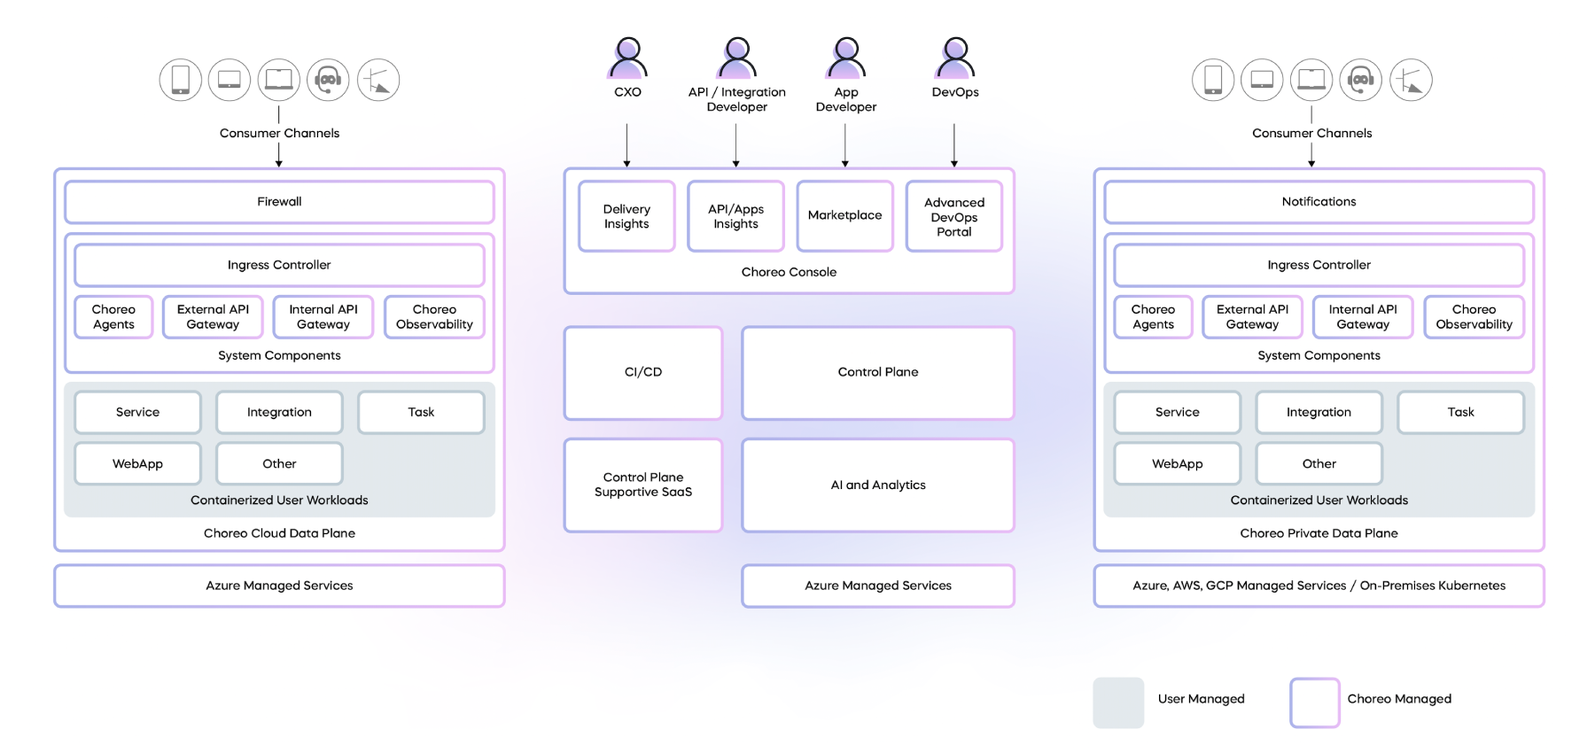
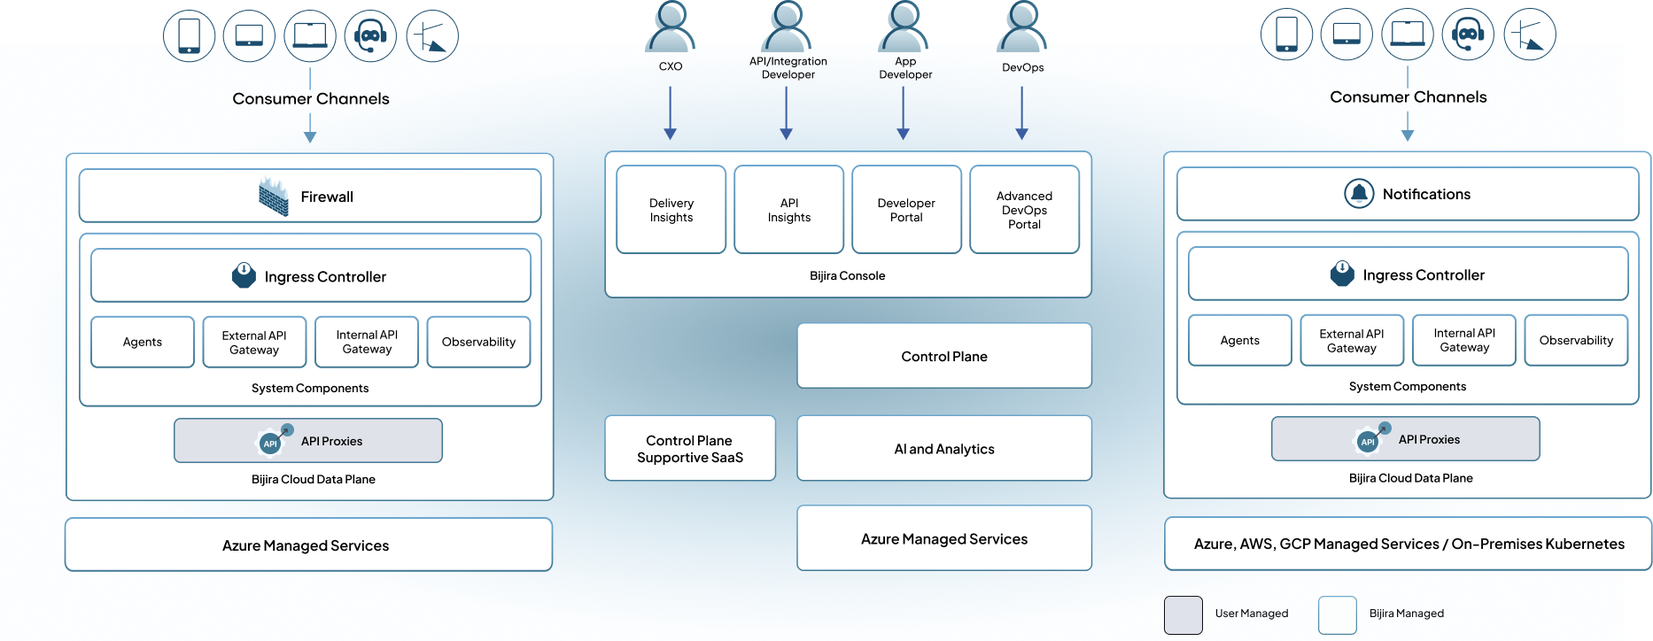
Revamp doc content

diff --git a/en/theme/material/templates/home-page-2.html b/en/theme/material/templates/home-page-2.html
@@ -283,7 +283,7 @@
                             </svg>
                         </div>
                         <div class="cText">
-                            <a href="bijira-concepts/ci-cd/"> Bijira Concepts</a>
+                            <a href="bijira-concepts/organization/"> Bijira Concepts</a>
                         </div>
                     </div>
                     <div class="iconTextcontainer last_in_card">

diff --git a/en/docs/bijira-concepts/data-planes.md b/en/docs/bijira-concepts/data-planes.md
@@ -1,41 +1,52 @@
 # Data Planes
 
-Bijira's architecture comprises two key components: the control plane and the data plane. The control plane handles essential tasks such as administering organizations, users, and projects. In addition, it also governs the entire journey of application development, from the initial stages of creation, progressing  to deployment, including measures to enforce governance and the provision for observability. The Bijira control plane is a SaaS that manages all cloud data planes and private data planes. It caters to diverse user personas, including CIOs, architects, and developers, as well as DevOps, site reliability engineers, and platform engineers.
+Bijira’s architecture is built around two core components, i.e. the control plane and the data plane.
 
-The data plane is the environment where user applications are deployed based on configurations set in the control plane. These applications can range from services and web applications to APIs, integrations, and scheduled tasks. The applications can be written in various programming languages, allowing for a polyglot approach. Importantly, all traffic related to the runtime of user applications is restricted to the Bijira data plane, ensuring strict containment of user data within its boundaries.
+### Control Plane
+The control plane manages key administrative tasks, including the configuration of organizations, users, and projects. It also orchestrates the entire API Proxy development lifecycle, from creation and deployment to governance enforcement, observability enablement, and publishing to the Developer Portal for application developers to consume APIs.
 
-Bijira's architecture features two distinct data plane types: cloud data planes and private data planes. A cloud data plane utilizes a multi-tenanted infrastructure model for deploying user applications, creating a shared yet secure environment for application runtime. In contrast, a private data plane(PDP) provides dedicated infrastructure for a single organization to run its user applications. This ensures an added layer of privacy and control for organizations with specific requirements.
+As a SaaS platform, the Bijira control plane oversees both cloud data planes and private data planes. It supports a wide range of user roles, including CIOs, architects, and developers.
+
+### Data Plane
+The data plane is where user-deployed API Proxies run, based on configurations defined in the control plane. All traffic related to these API Proxies is confined within the data plane, ensuring that user data remains securely contained.
+
+Bijira supports two types of data planes.
+
+- **Cloud Data Planes (CDP):** Use a multi-tenant infrastructure to deploy API Proxies, offering a shared yet secure runtime environment.
+- **Private Data Planes (PDP):** Offer dedicated infrastructure for a single organization, providing enhanced privacy and control to meet specific compliance or security requirements.
 
 ![Bijira high-level view](../assets/img/bijira-concepts/high-level-view.png)
 
-## Private data planes
+## Private Data Planes
 
-### Infrastructure
+### Infrastructure Compatibility
+Bijira private data planes can be deployed on most major cloud providers such as Azure, AWS, GCP, as well as on-premises environments.
 
-Bijira private data planes can be deployed with almost all major cloud providers, such as Azure, AWS, and GCP, and are also compatible with on-premises infrastructure.
+Minimum infrastructure requirements include,
 
-The essential requirements for a private data plane include upstream-compatible Kubernetes clusters, a container registry, a key vault (secret store), and a logging service or log storage.
+- Kubernetes clusters compatible with upstream distributions
+- Container registry
+- Key vault (secret store)
+- Logging service or log storage
 
 ![Private data plane architecture](../assets/img/bijira-concepts/private-data-plane-architecture.png)
 
 ### System components
 
-Setting up the Bijira PDP system involves using a Helm installation on the Kubernetes infrastructure.
-The following software components are installed during the helm execution:
+Setting up a Bijira PDP involves deploying components via Helm on the Kubernetes infrastructure. The installation include,
 
-- Cilium CNI and service mesh.
-- Bijira API Gateways and related components.
-- Bijira PDP agent.
-- Observability and logging APIs, along with observability agents.
-- Flux controller.
+- Cilium CNI
+- API Gateways and related components
+- PDP Agent
+- Observability and logging APIs, including observability agents
+- Flux Controller
 
-All of these software components receive automatic updates, including security patches and bug fixes through the flux controller connected to the Bijira Update Management System.
+All components are automatically updated, including security patches and bug fixes via the Flux Controller, which is connected to the Update Management System.
 
-### Connectivity with the control plane
+### Control Plane Connectivity
+Private data planes communicate with the control plane for ongoing operations. All communication is outbound only from the private data plane. If your organization’s network restricts outbound traffic, allow access to the control plane's public IP range.
 
-The private data plane requires communication with the Bijira control plane to manage various activities. All these communications are outbound from the private data plane, ensuring that there is no need to open any specific `IP:Port` from its perspective for these interactions. However, if an organization's network restricts all outbound traffic, it is necessary to permit outbound traffic to the public IP range of the Bijira control plane.
-
-The following table outlines the inbound and outbound connections from a private data plane:
+The following table details the required inbound and outbound connections for private data planes.
 
 | Data plane component      | Endpoint                                | Direction                 | Protocol |
 |:---------------------------|:---------------------------------------|:---------------------------|:---------|
@@ -52,37 +63,36 @@ The following table outlines the inbound and outbound connections from a private
 | Flux source controller     | GitHub                                 | Outbound                  | HTTPS    |
 | Flux Helm controller       | Bijira container registry              | Outbound                  | HTTPS    |
 
-All communication between the control plane and the private data plane is secured using TLS.
+All communications between the control plane and the private data plane are secured using TLS encryption.
 
-### Observability architecture
+### Observability Architecture
 
-The following diagram depicts the architecture overview of Bijira's in-data-plane log and observability in Azure PDP:
+The following diagram illustrates the log and observability architecture of a Bijira Azure PDP deployment.
 
 ![Observability architecture](../assets/img/bijira-concepts/observability-architecture.png)
 
-The private data plane observability architecture is centered around a strong commitment to data privacy and compliance. This is achieved through a strategic decision to retain logs and observability data within the data planes itself. Key aspects of this architecture include:
+---
 
-- **Data storage at source**: Logs and observability data are stored within the data plane itself, enhancing security, simplifying access, and ensuring compliance.
-- **Direct browser-to-data-plane interaction**: The Bijira Console in the user's browser directly interacts with APIs in the data plane, reducing potential data routing complexities and ensuring a more secure, direct flow of information.
-- **Reduced data exposure points**: Fetching data directly from the data plane's APIs minimizes the number of data transfer points, effectively decreasing the chances of data exposure or interception.
-- **Compliance with regulatory standards**: The architecture supports data locality, aligning with global regulatory standards like GDPR and CCPA by keeping data in its original environment.
-- **Improved performance and real-time insights**: Direct interaction between the browser and data plane results in faster data retrieval, providing users with immediate insights.
-- **User transparency and control**: Users have a clear view of their data's location and access methods, alongside granular control over data access.
+This architecture emphasizes data privacy and regulatory compliance by retaining logs and observability data within the data plane itself. Key design principles include:
+
+- **Data storage at source:** Logs and observability data are stored locally within the data plane, improving security and simplifying access, and ensuring compliance.
+- **Direct browser-to-data-plane interaction:** The Bijira Console in the user’s browser interacts directly with APIs in the data plane, reducing potential data routing complexities and ensuring a more secure, direct flow of information.
+- **Minimized exposure points:** Retrieving data directly from in-plane APIs minimizes the number of data transfer points, effectively decreasing the chances of data exposure or interception.
+- **Regulatory compliance:** By supporting data locality, the architecture aligns with GDPR, CCPA, and other regulatory frameworks.
+- **Real-time insights and improved performance:** Direct communication between the browser and the data plane enables faster data access and near real-time visibility.
+- **Transparency and control:** Users have clear insight into where their data resides and how it is accessed, with fine-grained control.
 
 ### Security
 
-The Bijira private data plane ensures extensive, production-grade security, ranging from infrastructure and architecture to zero-trust network security. All incoming traffic is protected by a firewall and must undergo authentication and authorization via the API Gateway. It also provides end-to-end network traffic encryption using Cilium transparent encryption, ensuring efficient data path encryption.
+The Bijira private data plane is built with production-grade security in mind, covering infrastructure, architecture, and zero-trust network security. All inbound traffic passes through a firewall and is authenticated and authorized via the API Gateway.
 
-<!-- TODO: Check the linked document -->
-<!-- For details on the private data plane security levels supported in Bijira pricing plans, see [Private Data Plane Security Levels](../references/private-data-plane-security-levels.md). -->
+End-to-end encryption is enforced using Cilium transparent encryption, ensuring secure and efficient network traffic flow.
 
-### Management models
+### Private Data Plane Management Models
 
-Bijira supports the following management models for private data planes (PDPs), fostering collaboration between WSO2 and customers across diverse scenarios:
+Bijira supports flexible management models for private data planes, facilitating collaboration between WSO2 and customers across diverse scenarios.
 
-- WSO2 fully managed (infrastructure and PDP in WSO2 subscription) model
-- WSO2 fully managed (infrastructure and PDP in customer subscription) model
-- Customer self-managed (WSO2 provides installation script and updates) model
+- **WSO2 Fully Managed – WSO2 Subscription:** Infrastructure and PDP are hosted under WSO2’s subscription.
+- **WSO2 Fully Managed – Customer Subscription:** Infrastructure is hosted under the customer’s subscription, but WSO2 manages the PDP.
+- **Customer Self-Managed:** WSO2 provides installation scripts and updates, while the customer maintains full control of the infrastructure and operations.
 
-<!-- TODO: Check the linked document -->
-<!-- To explore each management model in detail so that you can make informed decisions depending on the supported cloud-based operations and security, see [Private Data Plane Management Models](../references/private-data-plane-management-models.md). -->

diff --git a/en/docs/bijira-concepts/organization.md b/en/docs/bijira-concepts/organization.md
@@ -1,61 +1,94 @@
-# Organization
+# Organizations in Bijira
 
-An organization in Bijira is a logical grouping of users and user resources. A first-time user must create an organization and be a member of it when signing in to Bijira. Users and resources in an organization cannot access resources in another organization unless an admin of the other organization invites them and adds them as a member of that organization. A user cannot create more than one organization.
+Organizations are the foundational building blocks in Bijira, providing a secure and logical grouping of users, resources, and projects. This covers everything you need to know about organizations in Bijira, including their structure, management, permissions, and unique identifiers.
 
-## Switch organizations
+---
 
-If you are a member of more than one organization, you can switch from one organization to another when necessary. To do this, select the required organization from the **Organization** list in the Bijira Console header.
+## What is an Organization?
 
-{% include "../administer/inviting-members.md" %}
+An **organization** in Bijira is a logical container for users and their resources. Every user must belong to an organization to use Bijira. Organizations help isolate resources, manage access, and enable collaboration within a defined boundary.
 
-## Manage user permission
+- **First-time user onboarding:** First-time users must create an organization and become its member upon signing up.
+- **Resource isolation**: Users and resources in one organization cannot access those in another, unless explicitly invited.
+- **Single organization per user**: A user can only create one organization, but may be invited to join others.
 
-Bijira manages user permissions with groups and roles.
+---
+
+## Switching between Organizations
+
+If you are a member of multiple organizations, you can easily switch between them by following steps below.
+
+1. In the Bijira Console header, click the **Organization** list.
+2. Select the desired organization from the dropdown.
+
+---
+
+## Inviting Members to Your Organization
+
+To collaborate, you can invite new members to your organization. (See the [Inviting Members](../administer/inviting-members.md) guide for step-by-step instructions.)
+
+---
+
+## Managing User Permissions
+
+Bijira uses a combination of **groups** and **roles** to manage user permissions efficiently.
 
 ### Groups
 
-A group in Bijira is a collection of users, each with one or more roles assigned to them. Users within a group inherit the permissions associated with the roles assigned to that group. For instance, if a user is added to the `API Publisher` group, they will automatically receive the `API Publisher` role.
+A **group** is a collection of users with one or more roles assigned. Users inherit all permissions associated with the group's roles. For example, adding a user to the `API Publisher` group automatically grants them the `API Publisher` role.
 
-Bijira comes with predefined groups already configured with specific roles, as follows:
+#### Predefined Groups
 
-- **API Publisher**: A collection of users who have the API Publisher role.
-- **API Subscriber**: A collection of users who have the API Subscriber role.
-- **Admin** : A collection of users who have the Admin role.
-- **Billing Admin** : A collection of users who have the Billing Admin role.
-- **Bijira DevOps** : A collection of users who have the Bijira DevOps role.
-- **Developer** : Users who develop, deploy, and manage cloud native applications at scale.
-- **External API Subscriber**: A collection of users who have the External API Subscriber role.
+Bijira provides several predefined groups, each mapped to specific roles.
 
-When creating a new group to invite members, be sure to assign a role to the group to ensure users have the required permissions.
+- **Admin**: Users who have full access to the Choreo (user management, application development, billing and subscription, etc.).
+- **API Publisher**: Users who understand the technical aspects of the API (interfaces, documentation, versions, etc.) and create and publish APIs into the Developer Portal.
+- **API Subscriber**: Users or Application Developers who search the Developer Portal to discover APIs and use them. They read the documentation and forums, rates/comments on the APIs, subscribes to APIs, obtain access tokens, and invokes the APIs.
+- **Choreo Platform Engineer**: Users who perform tasks focusing on infrastructure, governance, service mesh, and monitoring.
+- **Choreo DevOps**: Users who are involved in deployment management.
+
+> **Tip:** When creating a new group, always assign at least one role to ensure members have the required permissions.
 
 ### Roles
 
-Bijira roles are defined as follows:
+Roles define what actions a user can perform within an organization. The main roles in Bijira are:
 
-- **API Publisher**: An API publisher can discover, create, publish, delete, test, and manage an API.
-- **API Subscriber**: An API subscriber is a developer in a particular organization. An API subscriber can subscribe to an application, manage subscriptions, manage applications, generate API keys, and manage API keys.
-- **Admin**: An administrator is responsible for all administration tasks, including user management, customizing the Developer Portal, managing projects, enabling analytics, managing domains, etc.
-- **Billing Admin**: Is responsible for billing administration that includes viewing tiers, creating and viewing organizations, managing invoices, viewing and creating subscriptions, and viewing and creating payment methods.
-- **Bijira DevOps**: A Bijira DevOps user is a user with access to the Bijira DevOps portal, enabling them to actively manage, ensure dependable deployment, and monitor components.
-- **Developer** : A user who can develop, deploy, and manage cloud native applications at scale.  
-- **External API subscriber**: External API subscribers are API consumers who have access only to the API Developer Portal. They can join an organization with the sole purpose of consuming APIs.
-- **Environment Manager (Deprecated)**: Manages deployment environments.
+- **API Publisher**: Users who understand the technical aspects of the API (interfaces, documentation, versions, etc.) and create and publish APIs into the Developer Portal.
+- **API Subscriber**: Users or Application Developers who search the Developer Portal to discover APIs and use them. They read the documentation and forums, rates/comments on the APIs, subscribes to APIs, obtain access tokens, and invokes the APIs.
+- **Admin**: Users who have full access to the Choreo (user management, application development, billing and subscription, etc.)
+- **Choreo DevOps**: Users who are involved in deployment management.
+- **Choreo Platform Engineer**: Users who perform tasks focusing on infrastructure, governance, service mesh, and monitoring.
 
-## Organization ID
+---
 
-The Organization ID serves as a unique identifier for each organization. To get the organization ID, follow the steps below:
+## Organization Identifiers
 
-1. Go to [Bijira Console](https://console.bijira.dev/) and sign in. This opens the project home page.
-2. Click on the **Organization** list on the header and select your organization.
+Bijira uses two unique identifiers for organizations, the **Organization ID** and the **Organization Handle**.
+
+### Organization ID
+
+A unique, system-generated identifier for each organization. To find your Organization ID:
+
+1. Go to the [Bijira Console](https://console.bijira.dev/) and sign in.
+2. Click the **Organization** list in the header and select your organization.
 3. In the left navigation, click **Settings**.
-4. In the header, click the **Organization** list. This will open the organization level settings page.
-5. Under **Organization** click **Copy ID**.
+4. In the header, click the **Organization** list to open organization-level settings.
+5. Under **Organization**, click **Copy ID**.
 
-## Organization Handle
+### Organization Handle
 
-The organization handle is a unique string that directly corresponds to your organization's name. To get the organization handle, follow the steps below:
+A unique, human-readable string that corresponds to your organization's name. To find your Organization Handle:
 
-1. Go to [Bijira Console](https://console.bijira.dev/) and sign in. This opens the project home page.
-2. Click on the **Organization** list on the header and select your organization.
+1. Go to the [Bijira Console](https://console.bijira.dev/) and sign in.
+2. Click the **Organization** list in the header and select your organization.
 3. In the left navigation, click **Settings**.
-4. Under **Organization** click **Copy Handle**.
+4. Under **Organization**, click **Copy Handle**.
+
+---
+
+## Best Practices for Organization Management
+
+- **Assign roles carefully**: Only grant users the permissions they need.
+- **Use groups for easier management**: Assign roles to groups and add users to groups for scalable permission management.
+- **Regularly review membership**: Periodically audit group memberships and roles to ensure security and compliance.
+- **Leverage organization identifiers**: Use the Organization ID and Handle for integrations, support, and automation.

diff --git a/en/docs/introduction/what-is-bijira.md b/en/docs/introduction/what-is-bijira.md
@@ -1,30 +1,33 @@
 # What is Bijira?
 
-Bijira is a cloud-based API management platform designed to simplify API development, deployment, security, and monitoring. Built on the foundation of WSO2 API Manager, Bijira provides a streamlined experience for organizations looking to manage APIs efficiently while leveraging key capabilities from Choreo.
+Bijira is next-generation, AI-native SaaS platform for full lifecycle API management, built to meet the demands of cloud-native and AI-driven ecosystems. Designed to simplify and accelerate API development, deployment, security, and monitoring, Bijira offers a unified control plane to manage all your APIs whether they’re internal, external, or AI-powered, across hybrid and multi-cloud environments.
+
+Powered by the proven foundation of WSO2 API Manager and enriched with key innovations from Choreo, Bijira delivers a seamless developer experience, intelligent governance, and enterprise-grade scalability.
 
 ## Key Capabilities of Bijira
 
 ### API Design and Development
-
-- **Seamless API Creation**: Define, document, and publish APIs using an intuitive user interface.
+- **Seamless API Creation:** Design, document, and publish APIs effortlessly using a visual interface or natural-language prompts powered by GenAI.
+- **Contract-First and No-Code Options:** Import OpenAPI/AsyncAPI specs or use low-code tools to define API behavior.
 
 ### API Security and Governance
 
-- **Robust Access Control**: Enforce authentication and authorization policies with OAuth.
-- **Rate Limiting and Throttling**: Protect your APIs from abuse by setting up request quotas and rate limits.
+- **Robust Access Control:** Enforce fine-grained authentication and authorization with OAuth2, OIDC, and role-based access control.
+- **Governance-as-Code:** Apply API design and security best practices using AI-assisted policy validation and rulesets.
+- **Rate Limiting and Throttling:** Protect APIs from abuse with granular control over traffic and quotas.
 
 ### API Lifecycle Management
 
-- **Comprehensive API Lifecycle Support**: From design to deprecation, Bijira enables smooth API versioning and management.
+- **Comprehensive Lifecycle Support:** From design to deprecation, Bijira streamlines API versioning, deployment, testing, promotion, and retirement.
 
 ### Developer Experience and API Discoverability
 
-- **Developer Portal**: Provide a self-service portal for developers to discover, subscribe to, and test APIs.
-- **API Documentation**: Auto-generate API documentation to improve adoption and usability.
+- **Developer Portal:** Offer a branded, self-service portal for API discovery, subscription, and interactive testing.
+- **Auto-Generated Documentation:** Improve usability and adoption with dynamic, always up-to-date API docs.
 
 ### Analytics and Monitoring
 
-- **Real-time API Insights**: Track API performance, consumer usage, and error rates through built-in analytics.
-- **Observability and Logging**: Gain deeper visibility into API interactions with detailed logs and event tracking.
+- **Real-time Insights:** Monitor API performance, consumer behavior, latency, and error rates through built-in analytics dashboards.
+- **Detailed Logging and Tracing:** Enable full observability with structured logs, metrics, and event tracking.
 
-Bijira brings a modern API management experience, empowering organizations to build, secure, and scale APIs efficiently while reducing operational overhead.
+Bijira empowers teams to build, secure, and scale modern APIs faster, while reducing operational complexity and enabling AI-powered innovation at every stage of the API lifecycle.

diff --git a/en/docs/bijira-concepts/project.md b/en/docs/bijira-concepts/project.md
@@ -1,7 +1,32 @@
-# Project
+# Projects in Bijira
 
-A project in Bijira is a logical group of related components that typically represent a single cloud native application. A project consists of one or more components. All components within a project can ideally be (but is not restricted to) in a single GitHub repository under different paths. This is also known as the monorepo architecture.
+Projects are a core organizational unit in Bijira, designed to group related components and resources that together represent a cloud-native application or solution. This document provides a comprehensive overview of projects in Bijira, including their structure and the deployment.
 
-At deployment time, all components within a given project are deployed into a single namespace of the Kubernetes cluster. Components within a project can be exposed to the public internet, internally to the rest of the organization, or privately within the project only. A project in Bijira is represented as a cell with regard to the [Cell-based architecture](https://github.com/wso2/reference-architecture/blob/master/reference-architecture-cell-based.md). The following diagram illustrates a project and how the components within a project are laid out at runtime:
+---
+
+## What is a Project?
+
+A **project** in Bijira is a logical grouping of API Proxies that typically work together to deliver a business capability. Projects help organize development, deployment, and management workflows for cloud-native applications. Each project is isolated from others, ensuring clear boundaries for resources, permissions, and deployments.
+
+---
+
+## Project Structure and Components
+
+A project may include:
+- **API Proxies**: Managed APIs that expose services securely.
+- **MCP Servers**: Managed MCP servers to be consumed by AI agents.
+
+All components within a project can be managed together, versioned, and deployed as a unit.
+
+---
+
+## Deployment Model
+
+At deployment time, all components in a project are deployed into a single namespace within a Kubernetes cluster. This provides:
+- **Resource isolation**: Each project runs in its own namespace, preventing interference between projects.
+- **Flexible exposure**: Components can be exposed to the public internet, internally to the organization, or privately within the project only.
+- **Unified management**: Bijira provides tools to manage deployments, scaling, and monitoring for all project components.
+
+A project in Bijira is represented as a **cell** in the [Cell-based architecture](https://github.com/wso2/reference-architecture/blob/master/reference-architecture-cell-based.md), which enables modular, scalable, and secure application design.
 
 ![Project](../assets/img/bijira-concepts/project.png){.cInlineImage-full}
